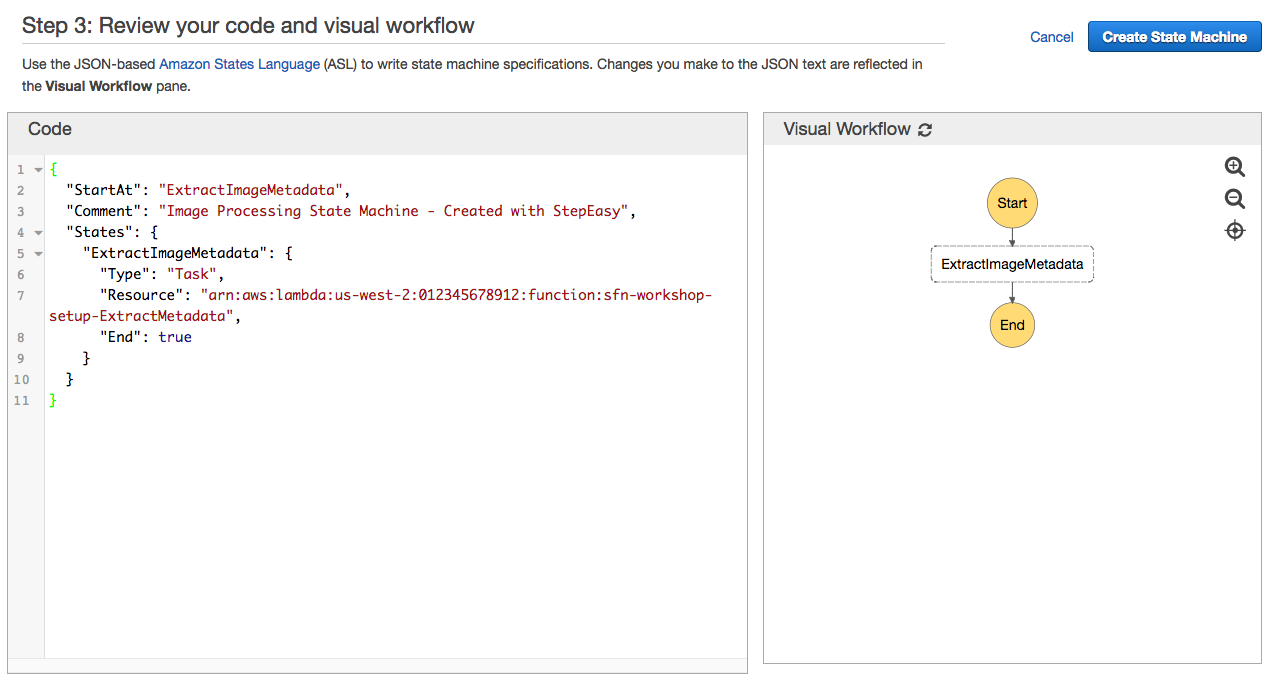
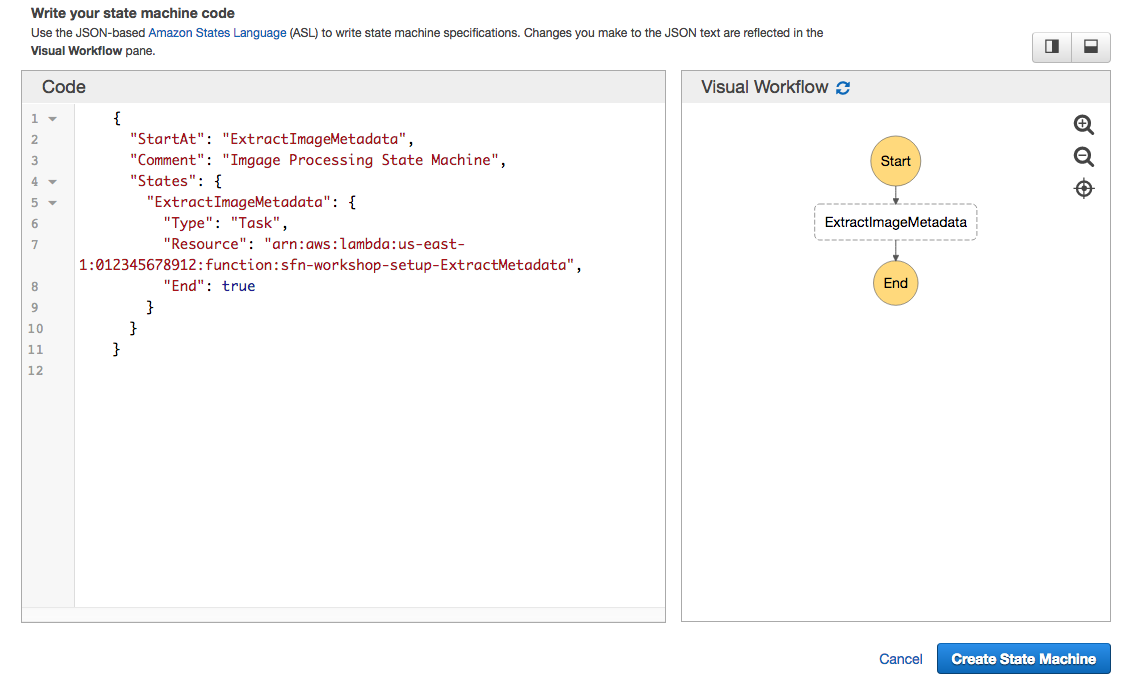
add supported regions and update instructions to follow Console UI changes (state machine ARN, IAM role creation, etc.)

diff --git a/Workshop/step-6.md b/Workshop/step-6.md
@@ -12,7 +12,12 @@ In this section, you will use a cloudformation template to package and deploy th
 
 Region| Code | Launch
 ------|------|-------
-EU (Ireland) | <span style="font-family:'Courier';">eu-west-1</span> | [![Launch Step 0B in eu-west-1](images/cfn-launch-stack.png)](https://console.aws.amazon.com/cloudformation/home?region=eu-west-1#/stacks/new?stackName=sfn-workshop-setup-webapp&templateURL=https://s3-eu-west-1.amazonaws.com/sfn-image-workshop-eu-west-1/cloudformation/step0-webapp.yaml)
+US East (Ohio)| <span style="font-family:'Courier';">us-east-2</span> | [![Launch Step 6 in us-east-2](images/cfn-launch-stack.png)](https://console.aws.amazon.com/cloudformation/home?region=us-east-2#/stacks/new?stackName=sfn-workshop-setup-webapp&templateURL=https://s3-us-east-2.amazonaws.com/sfn-image-workshop-us-east-2/cloudformation/step0-webapp.yaml)
+US East (N. Virginia) | <span style="font-family:'Courier';">us-east-1</span> | [![Launch Step 6 in us-east-1](images/cfn-launch-stack.png)](https://console.aws.amazon.com/cloudformation/home?region=us-east-1#/stacks/new?stackName=sfn-workshop-setup-webapp&templateURL=https://s3.amazonaws.com/sfn-image-workshop-us-east-1/cloudformation/step0-webapp.yaml)
+US West (Oregon) | <span style="font-family:'Courier';">us-west-2</span> | [![Launch Step 6 in us-west-2](images/cfn-launch-stack.png)](https://console.aws.amazon.com/cloudformation/home?region=us-west-2#/stacks/new?stackName=sfn-workshop-setup-webapp&templateURL=https://s3-us-west-2.amazonaws.com/sfn-image-workshop-us-west-2/cloudformation/step0-webapp.yaml)
+EU (Ireland) | <span style="font-family:'Courier';">eu-west-1</span> | [![Launch Step 6 in eu-west-1](images/cfn-launch-stack.png)](https://console.aws.amazon.com/cloudformation/home?region=eu-west-1#/stacks/new?stackName=sfn-workshop-setup-webapp&templateURL=https://s3-eu-west-1.amazonaws.com/sfn-image-workshop-eu-west-1/cloudformation/step0-webapp.yaml)
+Tokyo | <span style="font-family:'Courier';">ap-northeast-1</span> | [![Launch Step 6 in ap-northeast-1](images/cfn-launch-stack.png)](https://console.aws.amazon.com/cloudformation/home?region=ap-northeast-1#/stacks/new?stackName=sfn-workshop-setup-webapp&templateURL=https://s3-ap-northeast-1.amazonaws.com/sfn-image-workshop-ap-northeast-1/cloudformation/step0-webapp.yaml)
+Sydney | <span style="font-family:'Courier';">ap-southeast-2</span> | [![Launch Step 6 in ap-southeast-2](images/cfn-launch-stack.png)](https://console.aws.amazon.com/cloudformation/home?region=ap-southeast-2#/stacks/new?stackName=sfn-workshop-setup-webapp&templateURL=https://s3-ap-southeast-2.amazonaws.com/sfn-image-workshop-ap-southeast-2/cloudformation/step0-webapp.yaml)
 
 #### CloudFormation launch instructions
 

diff --git a/Workshop/step-0.md b/Workshop/step-0.md
@@ -16,7 +16,13 @@ To help you understand what resources are set up in this stage, refer to the dia
 
 Region| Code | Launch
 ------|------|-------
+US East (Ohio)| <span style="font-family:'Courier';">us-east-2</span> | [![Launch Step 0A in us-east-2](images/cfn-launch-stack.png)](https://console.aws.amazon.com/cloudformation/home?region=us-east-2#/stacks/new?stackName=sfn-workshop-setup&templateURL=https://s3-us-east-2.amazonaws.com/sfn-image-workshop-us-east-2/cloudformation/step0-sam.yaml)
+US East (N. Virginia) | <span style="font-family:'Courier';">us-east-1</span> | [![Launch Step 0A in us-east-1](images/cfn-launch-stack.png)](https://console.aws.amazon.com/cloudformation/home?region=us-east-1#/stacks/new?stackName=sfn-workshop-setup&templateURL=https://s3.amazonaws.com/sfn-image-workshop-us-east-1/cloudformation/step0-sam.yaml)
+US West (Oregon) | <span style="font-family:'Courier';">us-west-2</span> | [![Launch Step 0A in us-west-2](images/cfn-launch-stack.png)](https://console.aws.amazon.com/cloudformation/home?region=us-west-2#/stacks/new?stackName=sfn-workshop-setup&templateURL=https://s3-us-west-2.amazonaws.com/sfn-image-workshop-us-west-2/cloudformation/step0-sam.yaml)
 EU (Ireland) | <span style="font-family:'Courier';">eu-west-1</span> | [![Launch Step 0A in eu-west-1](images/cfn-launch-stack.png)](https://console.aws.amazon.com/cloudformation/home?region=eu-west-1#/stacks/new?stackName=sfn-workshop-setup&templateURL=https://s3-eu-west-1.amazonaws.com/sfn-image-workshop-eu-west-1/cloudformation/step0-sam.yaml)
+Tokyo | <span style="font-family:'Courier';">ap-northeast-1</span> | [![Launch Step 0A in ap-northeast-1](images/cfn-launch-stack.png)](https://console.aws.amazon.com/cloudformation/home?region=ap-northeast-1#/stacks/new?stackName=sfn-workshop-setup&templateURL=https://s3-ap-northeast-1.amazonaws.com/sfn-image-workshop-ap-northeast-1/cloudformation/step0-sam.yaml)
+Sydney | <span style="font-family:'Courier';">ap-southeast-2</span> | [![Launch Step 0A in ap-southeast-2](images/cfn-launch-stack.png)](https://console.aws.amazon.com/cloudformation/home?region=ap-southeast-2#/stacks/new?stackName=sfn-workshop-setup&templateURL=https://s3-ap-southeast-2.amazonaws.com/sfn-image-workshop-ap-southeast-2/cloudformation/step0-sam.yaml)
+
 
 <details>
 <summary><strong> CloudFormation launch instructions (expand for details) </strong></summary><p>

diff --git a/Workshop/step-2.md b/Workshop/step-2.md
@@ -14,7 +14,7 @@ Consider in our scenario we only support JPEG and PNG formats. The image analysi
 
 1. Go back to the text editor that you had the state machine definition. It should look like this:
 	
-	```javascript
+	```JSON
 	{
 	  "StartAt": "ExtractImageMetadata",
 	  "Comment": "Imgage Processing State Machine",
@@ -33,7 +33,7 @@ Consider in our scenario we only support JPEG and PNG formats. The image analysi
 	
 	Add a **Fail** state following the **ExtractImageMetadata** state in the state machine definition:
 
-	```
+	```JSON
 		,
 	    "NotSupportedImageType": {
 	      "Type": "Fail",
@@ -68,7 +68,7 @@ Consider in our scenario we only support JPEG and PNG formats. The image analysi
 
 	Add a **Choice** state after the **NotSupportedImageType** fail state: 
 
-	```
+	```JSON
 	  "ImageTypeCheck": {
 	      "Type": "Choice",
 	      "Choices": [{
@@ -112,7 +112,7 @@ Consider in our scenario we only support JPEG and PNG formats. The image analysi
 	
 1. The Choice state must not be an end state in a Step Functions state machine. Therefore, we need to have a state following the choice state. For now, create a placeholder **Pass** state that will be replaced by a parallel processing step (Note we already have a `Next` pointer to this state from the **ImageTypeCheck** state): 
 	
-	```javascript
+	``````JSON
 	    "Parallel": {
 	      "Type": "Pass",
 	      "Result": {

diff --git a/Workshop/step-1.md b/Workshop/step-1.md
@@ -29,7 +29,7 @@ When you are constructing a state machine definition by authoring JSON directly,
 	```javascript
 	{
 	  "StartAt": "ExtractImageMetadata",
-	  "Comment": "Imgage Processing State Machine",
+	  "Comment": "Image Processing State Machine",
 	  "States": {
 	    "ExtractImageMetadata": {
 	      "Type": "Task",
@@ -55,6 +55,10 @@ When you are constructing a state machine definition by authoring JSON directly,
 
 1. Type `ImageProcessing` for the state machine name
 
+1. For **IAM role for your state machine executions**, pick **Create a role for me** and click the checkmark to acknowledge the IAM role will be created:
+
+	![pick IAM role for state machine](./images/1-auto-IAM-role.png)
+
 1. Scroll down until you see the section **Step3: Review your code and visual workflow**.  
 Paste in the JSON exported from Step 1A
 
@@ -64,9 +68,8 @@ Paste in the JSON exported from Step 1A
 
 1. Click **Create State Machine** to create the state machine.
 
-1. In the pop-up window, select the IAM role automatically generated for you (the name should look like `StatesExecutionRole-{region-name}`).
 
-	![pick IAM role for state machine](./images/1b-pick-state-role.png)
+	
 
 ### Step 1C: Test the state machine execution
 

diff --git a/Workshop/step-4.md b/Workshop/step-4.md
@@ -74,7 +74,7 @@ Take a look at this documentation if you need help with the syntax:
 ```JSON
 {
   "StartAt": "ExtractImageMetadata",
-  "Comment": "New State Machine - Created with StepEasy",
+  "Comment": "Image Processing State Machine",
   "States": {
     "ExtractImageMetadata": {
       "Type": "Task",
@@ -84,7 +84,7 @@ Take a look at this documentation if you need help with the syntax:
           "ErrorEquals": [
             "ImageIdentifyError"
           ],
-          "ResultPath": "",
+          "ResultPath": "$.error",
           "Next": "NotSupportedImageType"
         }
       ],
@@ -120,7 +120,6 @@ Take a look at this documentation if you need help with the syntax:
       "Branches": [
         {
           "StartAt": "DetectLabelsRekognition",
-          "Comment": " - Created with StepEasy",
           "States": {
             "DetectLabelsRekognition": {
               "Type": "Task",
@@ -131,7 +130,6 @@ Take a look at this documentation if you need help with the syntax:
         },
         {
           "StartAt": "Thumbnail",
-          "Comment": " - Created with StepEasy",
           "States": {
             "Thumbnail": {
               "Type": "Task",

diff --git a/Workshop/step-5.md b/Workshop/step-5.md
@@ -19,10 +19,9 @@ The first step requires some extra configuration as it needs CloudTrail to be en
 
 1. On the Dashboard locate your state machine. If you followed instructions on prior steps it should be *ImageProcessing*
 
-1. Click on the state machine to go to the detail page. You can locate the ARN (Amazon Resource Name) of the state machine at the end of the URL that should look like:
-	`arn:aws:states:<AWS_REGION>:<AWS_ACCOUNT_ID>:stateMachine:ImageProcessing`
+1. On the upper right corner of the page, find and copy the **State Machine Arn**: 	 
 
-	<img src="images/5a-state-machine-arn-new.png" width="90%">
+	<img src="images/5a-state-machine-arn-newer.png" width="90%">
 
 1. Navigate to the [AWS Lambda management console](https://console.aws.amazon.com/lambda/home) and find the Lambda function with a name that ends with `StartExecution`. That is the one that triggers the state machine. Select it by clicking on the link on its name.
 

diff --git a/Workshop/additional-steps.md b/Workshop/additional-steps.md
@@ -226,4 +226,3 @@ Did all images copied into your bucket get processed by Step Functions? You can 
 1. Go to the DynamoDB table (look for table name starting with ```sfn-workshop-resources-ImageMetadataDDBTable-```) and look for entries with **errReason** field (or with **executionArn** field equals **ERR**):
 
 <img src="images/dynamo-screenshot.png" width="80%">
-](
